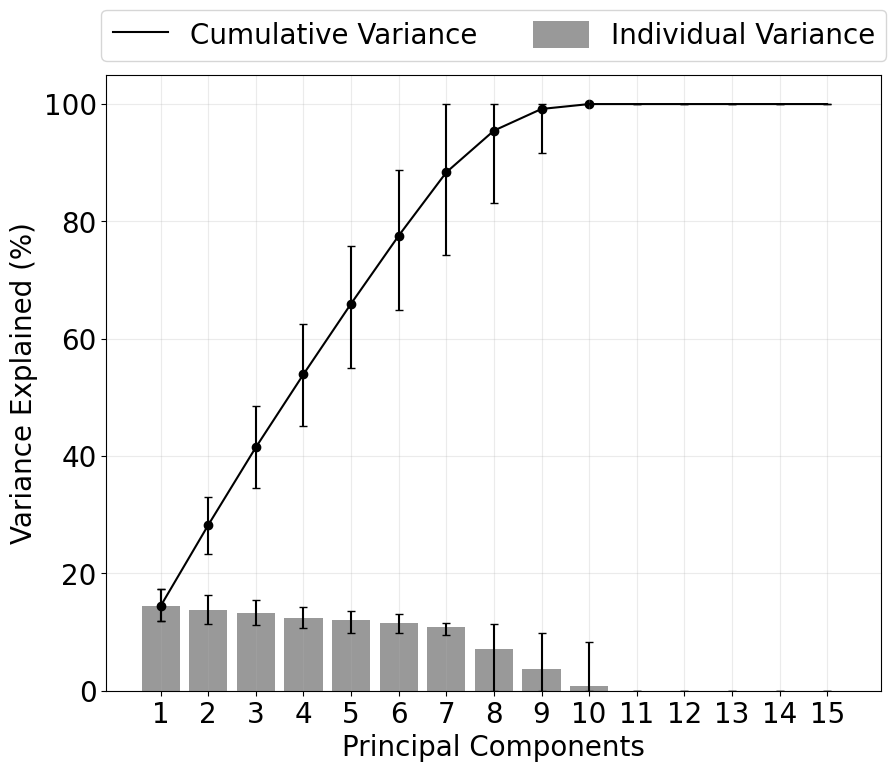
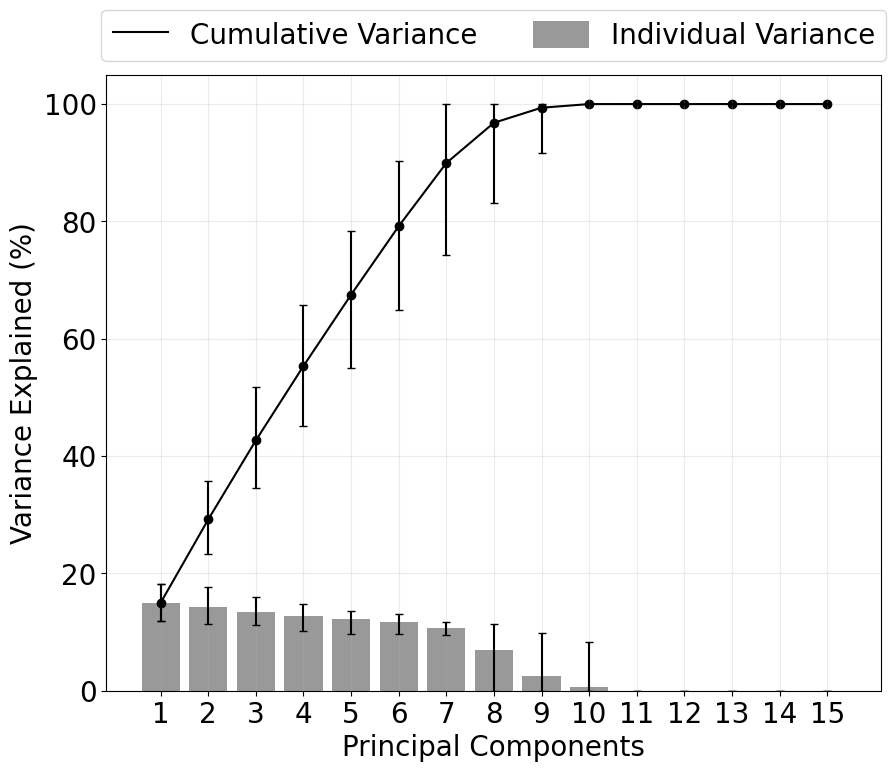
Code

diff --git a/comparison-models.py b/comparison-models.py
@@ -5,7 +5,7 @@ from matplotlib import pyplot as plt
 
 
 run = 16
-encoding_dim = 35
+encoding_dim = 30
 n_flows = 0
 beta = 0.0001
 beta_name = "0001"
@@ -28,34 +28,39 @@ transitional_all = []
 
 for run in range(1, 26):
 
-    balanced_loss = np.load("Variational Eagle/Loss/Normalising Flow Balanced/planar_new_latent_" + str(encoding_dim) + "_beta_" + beta_name + "_epoch_" + str(epochs) + "_flows_" + str(n_flows) + "_" + str(run) + "_default.npy")
-    balanced_losses.append(balanced_loss[1])
-    # balanced_loss = np.load("Variational Eagle/Loss/Normalising Flow Balanced/planar_new_latent_" + str(encoding_dim) + "_beta_" + beta_name + "_epoch_" + str(epochs) + "_flows_" + str(n_flows) + "_" + str(run) + "_default_individual_residual.npy")
-    # balanced_all = balanced_all + balanced_loss.tolist()
-    # balanced_loss = np.mean(balanced_loss)
-    # balanced_losses.append(balanced_loss)
+    # balanced_loss = np.load("Variational Eagle/Loss/Normalising Flow Balanced/planar_new_latent_" + str(encoding_dim) + "_beta_" + beta_name + "_epoch_" + str(epochs) + "_flows_" + str(n_flows) + "_" + str(run) + "_default.npy")
+    # balanced_losses.append(balanced_loss[1])
+    balanced_loss = np.load("Variational Eagle/Loss/Normalising Flow Balanced/planar_new_latent_" + str(encoding_dim) + "_beta_" + beta_name + "_epoch_" + str(epochs) + "_flows_" + str(n_flows) + "_" + str(run) + "_default_individual_residual.npy")
+    balanced_all = balanced_all + balanced_loss.tolist()
+    balanced_loss = np.mean(balanced_loss)
+    balanced_losses.append(balanced_loss)
+    # print(run, balanced_loss)
 
 
-    spiral_loss = np.load("Variational Eagle/Loss/Spirals/planar_new_latent_" + str(encoding_dim) + "_beta_" + beta_name + "_epoch_" + str(epochs) + "_flows_" + str(n_flows) + "_" + str(run) + "_default.npy")
-    spiral_losses.append(spiral_loss[1])
-    # spiral_loss = np.load("Variational Eagle/Loss/Spirals/planar_new_latent_" + str(encoding_dim) + "_beta_" + beta_name + "_epoch_" + str(epochs) + "_flows_" + str(n_flows) + "_" + str(run) + "_default_individual_residual.npy")
-    # spiral_all = spiral_all + spiral_loss.tolist()
-    # spiral_loss = np.mean(spiral_loss)
-    # spiral_losses.append(spiral_loss)
+    # spiral_loss = np.load("Variational Eagle/Loss/Spirals/planar_new_latent_" + str(encoding_dim) + "_beta_" + beta_name + "_epoch_" + str(epochs) + "_flows_" + str(n_flows) + "_" + str(run) + "_default.npy")
+    # spiral_losses.append(spiral_loss[1])
+    spiral_loss = np.load("Variational Eagle/Loss/Spirals/planar_new_latent_" + str(encoding_dim) + "_beta_" + beta_name + "_epoch_" + str(epochs) + "_flows_" + str(n_flows) + "_" + str(run) + "_default_individual_residual.npy")
+    spiral_all = spiral_all + spiral_loss.tolist()
+    spiral_loss = np.mean(spiral_loss)
+    spiral_losses.append(spiral_loss)
+    # print(run, spiral_loss)
 
-    transitional_loss = np.load("Variational Eagle/Loss/Transitional/planar_new_latent_" + str(encoding_dim) + "_beta_" + beta_name + "_epoch_" + str(epochs) + "_flows_" + str(n_flows) + "_" + str(run) + "_default.npy")
-    transitional_losses.append(transitional_loss[1])
-    # transitional_loss = np.load("Variational Eagle/Loss/Transitional/planar_new_latent_" + str(encoding_dim) + "_beta_" + beta_name + "_epoch_" + str(epochs) + "_flows_" + str(n_flows) + "_" + str(run) + "_default_individual_residual.npy")
-    # transitional_all += transitional_loss.tolist()
-    # transitional_loss = np.mean(transitional_loss)
-    # transitional_losses.append(transitional_loss)
 
-    elliptical_loss = np.load("Variational Eagle/Loss/Ellipticals/planar_new_latent_" + str(encoding_dim) + "_beta_" + beta_name + "_epoch_" + str(epochs) + "_flows_" + str(n_flows) + "_" + str(run) + "_default.npy")
-    elliptical_losses.append(elliptical_loss[1])
-    # elliptical_loss = np.load("Variational Eagle/Loss/Ellipticals/planar_new_latent_" + str(encoding_dim) + "_beta_" + beta_name + "_epoch_" + str(epochs) + "_flows_" + str(n_flows) + "_" + str(run) + "_default_individual_residual.npy")
-    # elliptical_all += elliptical_loss.tolist()
-    # elliptical_loss = np.mean(elliptical_loss)
-    # elliptical_losses.append(elliptical_loss)
+    # transitional_loss = np.load("Variational Eagle/Loss/Transitional/planar_new_latent_" + str(encoding_dim) + "_beta_" + beta_name + "_epoch_" + str(epochs) + "_flows_" + str(n_flows) + "_" + str(run) + "_default.npy")
+    # transitional_losses.append(transitional_loss[1])
+    transitional_loss = np.load("Variational Eagle/Loss/Transitional/planar_new_latent_" + str(encoding_dim) + "_beta_" + beta_name + "_epoch_" + str(epochs) + "_flows_" + str(n_flows) + "_" + str(run) + "_default_individual_residual.npy")
+    transitional_all += transitional_loss.tolist()
+    transitional_loss = np.mean(transitional_loss)
+    transitional_losses.append(transitional_loss)
+    print(run, transitional_loss)
+
+    # elliptical_loss = np.load("Variational Eagle/Loss/Ellipticals/planar_new_latent_" + str(encoding_dim) + "_beta_" + beta_name + "_epoch_" + str(epochs) + "_flows_" + str(n_flows) + "_" + str(run) + "_default.npy")
+    # elliptical_losses.append(elliptical_loss[1])
+    elliptical_loss = np.load("Variational Eagle/Loss/Ellipticals/planar_new_latent_" + str(encoding_dim) + "_beta_" + beta_name + "_epoch_" + str(epochs) + "_flows_" + str(n_flows) + "_" + str(run) + "_default_individual_residual.npy")
+    elliptical_all += elliptical_loss.tolist()
+    elliptical_loss = np.mean(elliptical_loss)
+    elliptical_losses.append(elliptical_loss)
+    # print(run, elliptical_loss)
 
 
 all_losses = [balanced_losses, spiral_losses, transitional_losses, elliptical_losses]
@@ -112,6 +117,8 @@ mean_losses = np.array([np.mean(balanced_losses), np.mean(spiral_losses), np.mea
 max_losses = np.array([max(balanced_losses), max(spiral_losses), max(transitional_losses), max(elliptical_losses)])
 print(mean_losses)
 
+print(max_losses[2])
+
 
 
 # fig, axs = plt.subplots(1, 1, figsize=(5, 10))
@@ -151,15 +158,15 @@ axs.text(0.05, mean_losses[1], "Disk-Dominated", fontsize=20, ha="left", va="cen
 axs.text(0.05, mean_losses[2], "Transitional", fontsize=20, ha="left", va="center")
 axs.text(0.05, mean_losses[3], "Bulge-Dominated", fontsize=20, ha="left", va="center")
 
-axs.set_ylabel("Reconstruction Loss (BCE)", fontsize=20, labelpad=20)
-# axs.set_ylabel("Mean Residual", fontsize=20, labelpad=20)
+# axs.set_ylabel("Reconstruction Loss (BCE)", fontsize=20, labelpad=20)
+axs.set_ylabel("Mean Residual", fontsize=20, labelpad=20)
 axs.tick_params(labelsize=20)
 axs.set_xlim(-0.1, 0.6)
 axs.set_xticks([])
 # axs.set_yticks([round(mean_losses[2], 3), round(mean_losses[1], 3), round(mean_losses[0], 3), round(mean_losses[3], 3)])
 # axs.set_yticks([0.204, 0.206, 0.208, 0.210, 0.212, 0.214, 0.216])
 
-plt.savefig("Variational Eagle/Plots/subset_loss_comparison_bce", bbox_inches="tight")
+plt.savefig("Variational Eagle/Plots/subset_loss_comparison_residual_" + str(encoding_dim), bbox_inches="tight")
 plt.show()
 
 

diff --git a/correlation_flows.py b/correlation_flows.py
@@ -10,7 +10,7 @@ import dcor
 
 
 run = 16
-encoding_dim = 35
+encoding_dim = 30
 n_flows = 0
 beta = 0.0001
 beta_name = "0001"
@@ -170,10 +170,15 @@ fig, axs = plt.subplots(2, 1, figsize=(35, 15))
 # run_order = [2, 3, 10, 11, 20, 22, 24] + [1, 4, 5, 6, 7, 8, 9, 12, 13, 14, 15, 16, 17, 18, 19, 21, 23] + [25]
 # run_order = [13, 21] + [1, 2, 3, 4, 5, 7, 8, 10, 11, 12, 14, 15, 16, 18, 19, 20, 22, 23, 24, 25] + [6, 9, 17]
 
-# spirals, transitional, ellipticals
+# spirals (35)
 # run_order = [1, 2, 3, 4, 5, 6, 7, 8, 9, 10, 11, 12, 13, 14, 15, 16, 17, 18, 19, 21, 22, 23, 24, 25] + [20]
+
+# transitional (35)
 # run_order = [3, 7, 14, 20, 22] + [2, 6, 8, 9, 11, 12, 13, 16, 17, 19, 23, 25] + [1, 4, 5, 10, 15, 18, 21, 24]
-run_order = [6] + [2, 3, 5, 8, 13, 16, 20, 24] + [4, 9, 11, 12, 14, 15, 18, 19, 23, 25] + [1, 7, 10, 17, 21, 22]
+
+# ellipticals (30, 35)
+run_order = [1, 2, 10, 13, 16, 18, 21, 24] + [3, 4, 5, 12, 14, 15, 17, 22, 23, 25] + [6, 7, 8, 19, 20] + [9, 11]
+# run_order = [6] + [2, 3, 5, 8, 13, 16, 20, 24] + [4, 9, 11, 12, 14, 15, 18, 19, 23, 25] + [1, 7, 10, 17, 21, 22]
 
 run_names = [str(a) for a in run_order]
 
@@ -402,10 +407,15 @@ wrap_labels(axs[1], 10)
 # cols = [7, 24]
 # cols = [2, 22]
 
-# spirals, transitional, ellipiticals
+# spirals (35)
 # cols = [24]
+
+# transitional (35)
 # cols = [5, 17]
-cols = [1, 9, 19]
+
+# ellipticals (35)
+cols = 8, 18, 23
+# cols = [1, 9, 19]
 
 ymin, ymax = axs[0].get_ylim()
 for col in cols:

diff --git a/pca.py b/pca.py
@@ -10,7 +10,7 @@ import random
 
 
 run = 1
-encoding_dim = 35
+encoding_dim = 30
 n_flows = 0
 beta = 0.0001
 beta_name = "0001"
